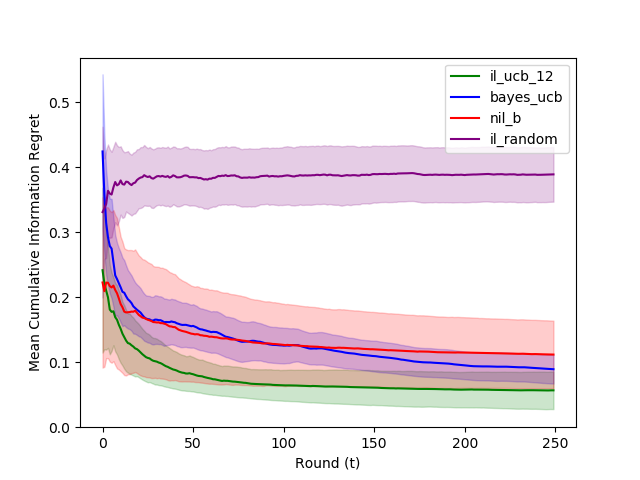
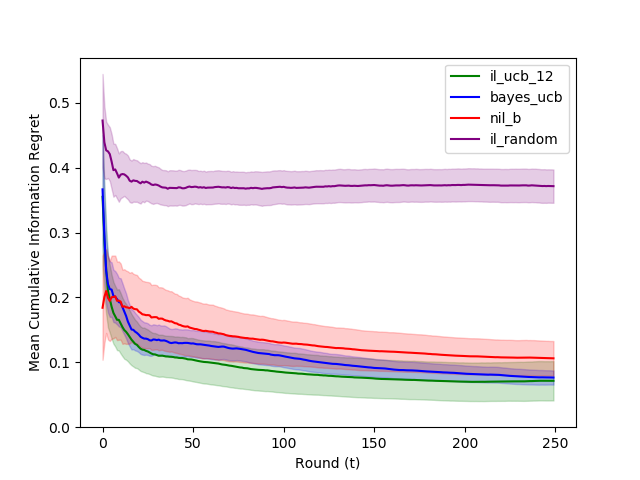
agent

Changed region(s): [[0.1562, 0.2188, 0.875, 0.875]]

diff --git a/agencies/agent.py b/agencies/agent.py
@@ -88,3 +88,47 @@ class Agent():
         else:
             # print("ello")
             return self.generate_reports_copycat_attack()
+
+    def generate_reports_true_copy_cat_attack(self, prev_agents, prev_agent_reports):
+        reports = []
+        for agent_index, agent in enumerate(prev_agents):
+            if agent.trustworthy == True:
+                reports = prev_agent_reports[agent_index]
+                reports[self.best_arm] = 0
+                for target_arm_index in self.target_arms:
+                    reports[target_arm_index] = 1
+                
+                return reports
+        
+        return self.generate_reports_copycat_attack()
+
+    def generate_reports_average_attack(self, prev_agents, prev_agent_reports):
+        reports = np.zeros(len(self.arm_dists))
+        count = 0
+        for agent_index, agent in enumerate(prev_agents):
+            reports = np.add(reports, prev_agent_reports[agent_index])
+            count += 1
+
+        if count > 0:
+            reports /= count
+            reports[self.best_arm] = 0
+            for target_arm_index in self.target_arms:
+                reports[target_arm_index] = 1
+            return reports
+        else:        
+            return self.generate_reports_copycat_attack()
+
+
+    def generate_reports_v2(self, prev_agents= [], prev_agent_reports= []):
+        if self.trustworthy == True:
+            reports = []
+            for dist in self.arm_dists:
+                reports.append(np.mean(dist.sample_array(self.num_reports)))
+            
+            return reports #returns an array of bernoulli parameters
+        else:
+            # print("ello")
+            return self.generate_reports_average_attack(prev_agents, prev_agent_reports)
+                
+        
+

diff --git a/agencies/agency.py b/agencies/agency.py
@@ -1,5 +1,7 @@
 from agencies.agent import Agent
 import matplotlib.pyplot as plt
+import copy
+
 class Agency():
     def __init__(self):
         self.agents = []
@@ -11,11 +13,11 @@ class Agency():
         self.agent_reputations.append([])
 
     def send_reports(self):
-        # reports = []
-        # for agent in self.agents:
-        #     reports.append(agent.generate_reports())
+        reports = []
+        for index, agent in enumerate(self.agents):
+            reports.append(agent.generate_reports_v2(self.agents[:index], copy.deepcopy(reports)))
 
-        reports = [agent.generate_reports() for agent in self.agents]
+        # reports = [agent.generate_reports() for agent in self.agents]
         self.agent_reports = reports 
         return reports
 

diff --git a/run_simulation.py b/run_simulation.py
@@ -49,7 +49,7 @@ trust = np.full(num_agents, False)
 trust[:int(trust_ratio * num_agents)] = True
 # trust = [False, False, True, False, True]
 #####################END###############################
-
+#scales with number of attackers, not fraction
 
 world_priors = [BetaDistribution(1, 1) for k in range(K)]
 nature = Nature(K, world_priors, len(trust))

diff --git a/bandits/run_bandit.py b/bandits/run_bandit.py
@@ -9,7 +9,7 @@ from bandits.thompsonsampling import ThompsonSampling
 from oracles.oracle import Oracle
 import scipy.stats
 import copy
-
+#if soley based on number of bad agents, then 11/20 at 20 should be 0.55
 def mean_confidence_interval(data, confidence=0.95):
     a = 1.0 * np.array(data)
     n = len(a)
